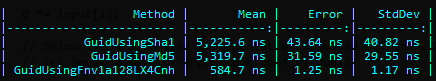
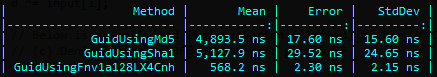
Updated wrong sha1/md5 names in pic with old test result https://twitter.com/github3F/status/1419047447326863367

diff --git a/src/Tests/Benchmark/HuidTest.cs b/src/Tests/Benchmark/HuidTest.cs
@@ -33,9 +33,9 @@ namespace net.r_eg.hashing.Tests
         /*
         |                  Method |       Mean |    Error |   StdDev |
         |------------------------ |-----------:|---------:|---------:|
-        |            GuidUsingMd5 | 5,225.6 ns | 43.64 ns | 40.82 ns |
-        |           GuidUsingSha1 | 5,319.7 ns | 31.59 ns | 29.55 ns |
-        | GuidUsingFnv1a128LX4Cnh |   584.7 ns |  1.25 ns |  1.17 ns |
+        |            GuidUsingMd5 | 4,893.5 ns | 17.60 ns | 15.60 ns |
+        |           GuidUsingSha1 | 5,127.9 ns | 29.52 ns | 24.65 ns |
+        | GuidUsingFnv1a128LX4Cnh |   568.2 ns |  2.30 ns |  2.15 ns |
        */
 
         private const string MSG = "LodgeX4CorrNoHigh (LX4Cnh) algorithm of the high-speed multiplications of 128-bit numbers";

diff --git a/Readme.md b/Readme.md
@@ -11,6 +11,8 @@ Huid.NewGuid
 
 ![](benchmark.png)
 
+![](benchmark.inf.png)
+
 *(1 ns = 0.000000001 sec)*
 
 **\+** ✔ Compatible with .NET [System.Guid](https://docs.microsoft.com/en-us/dotnet/api/system.guid).
